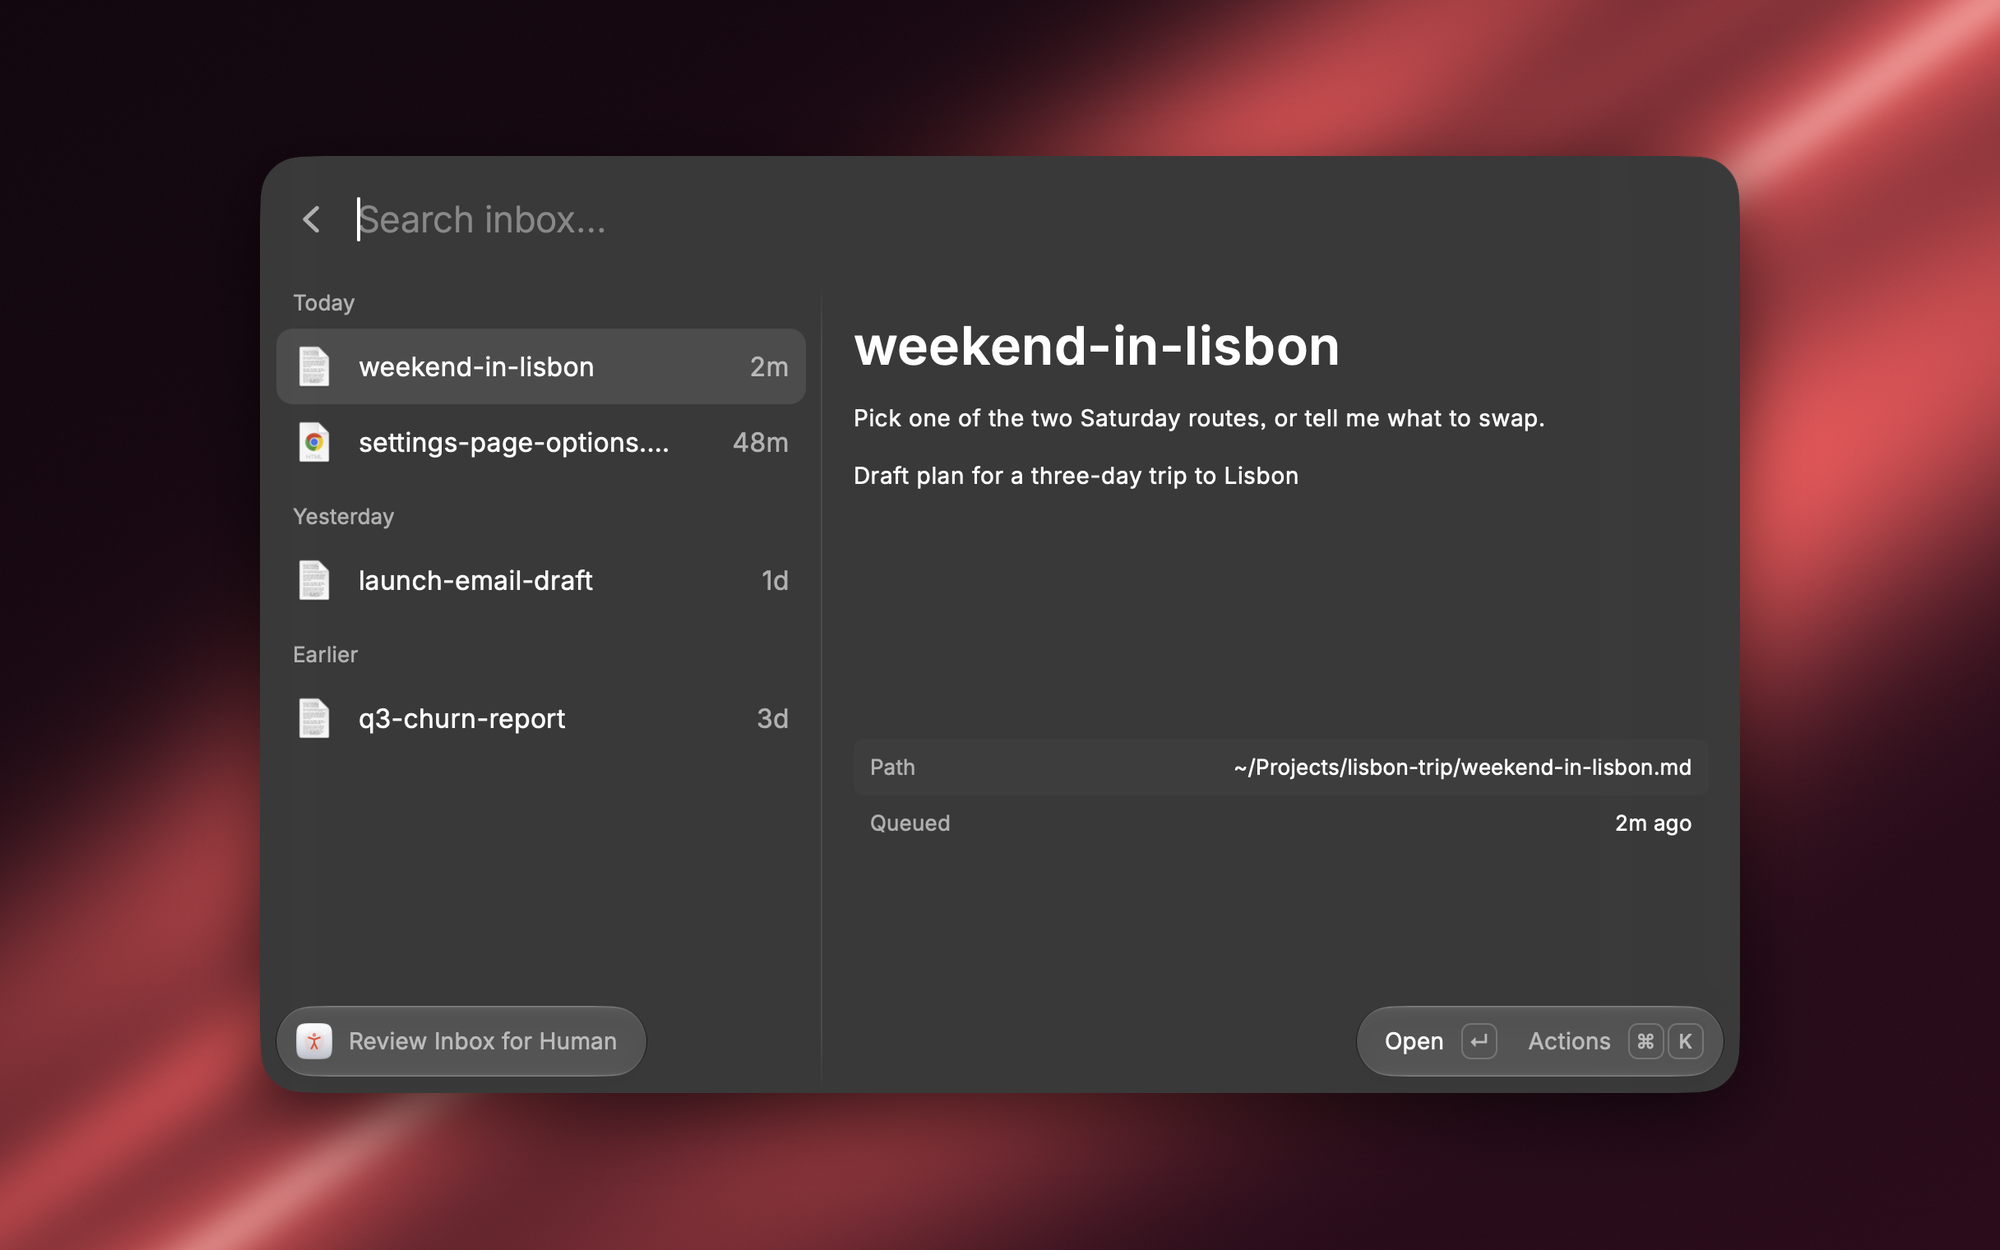
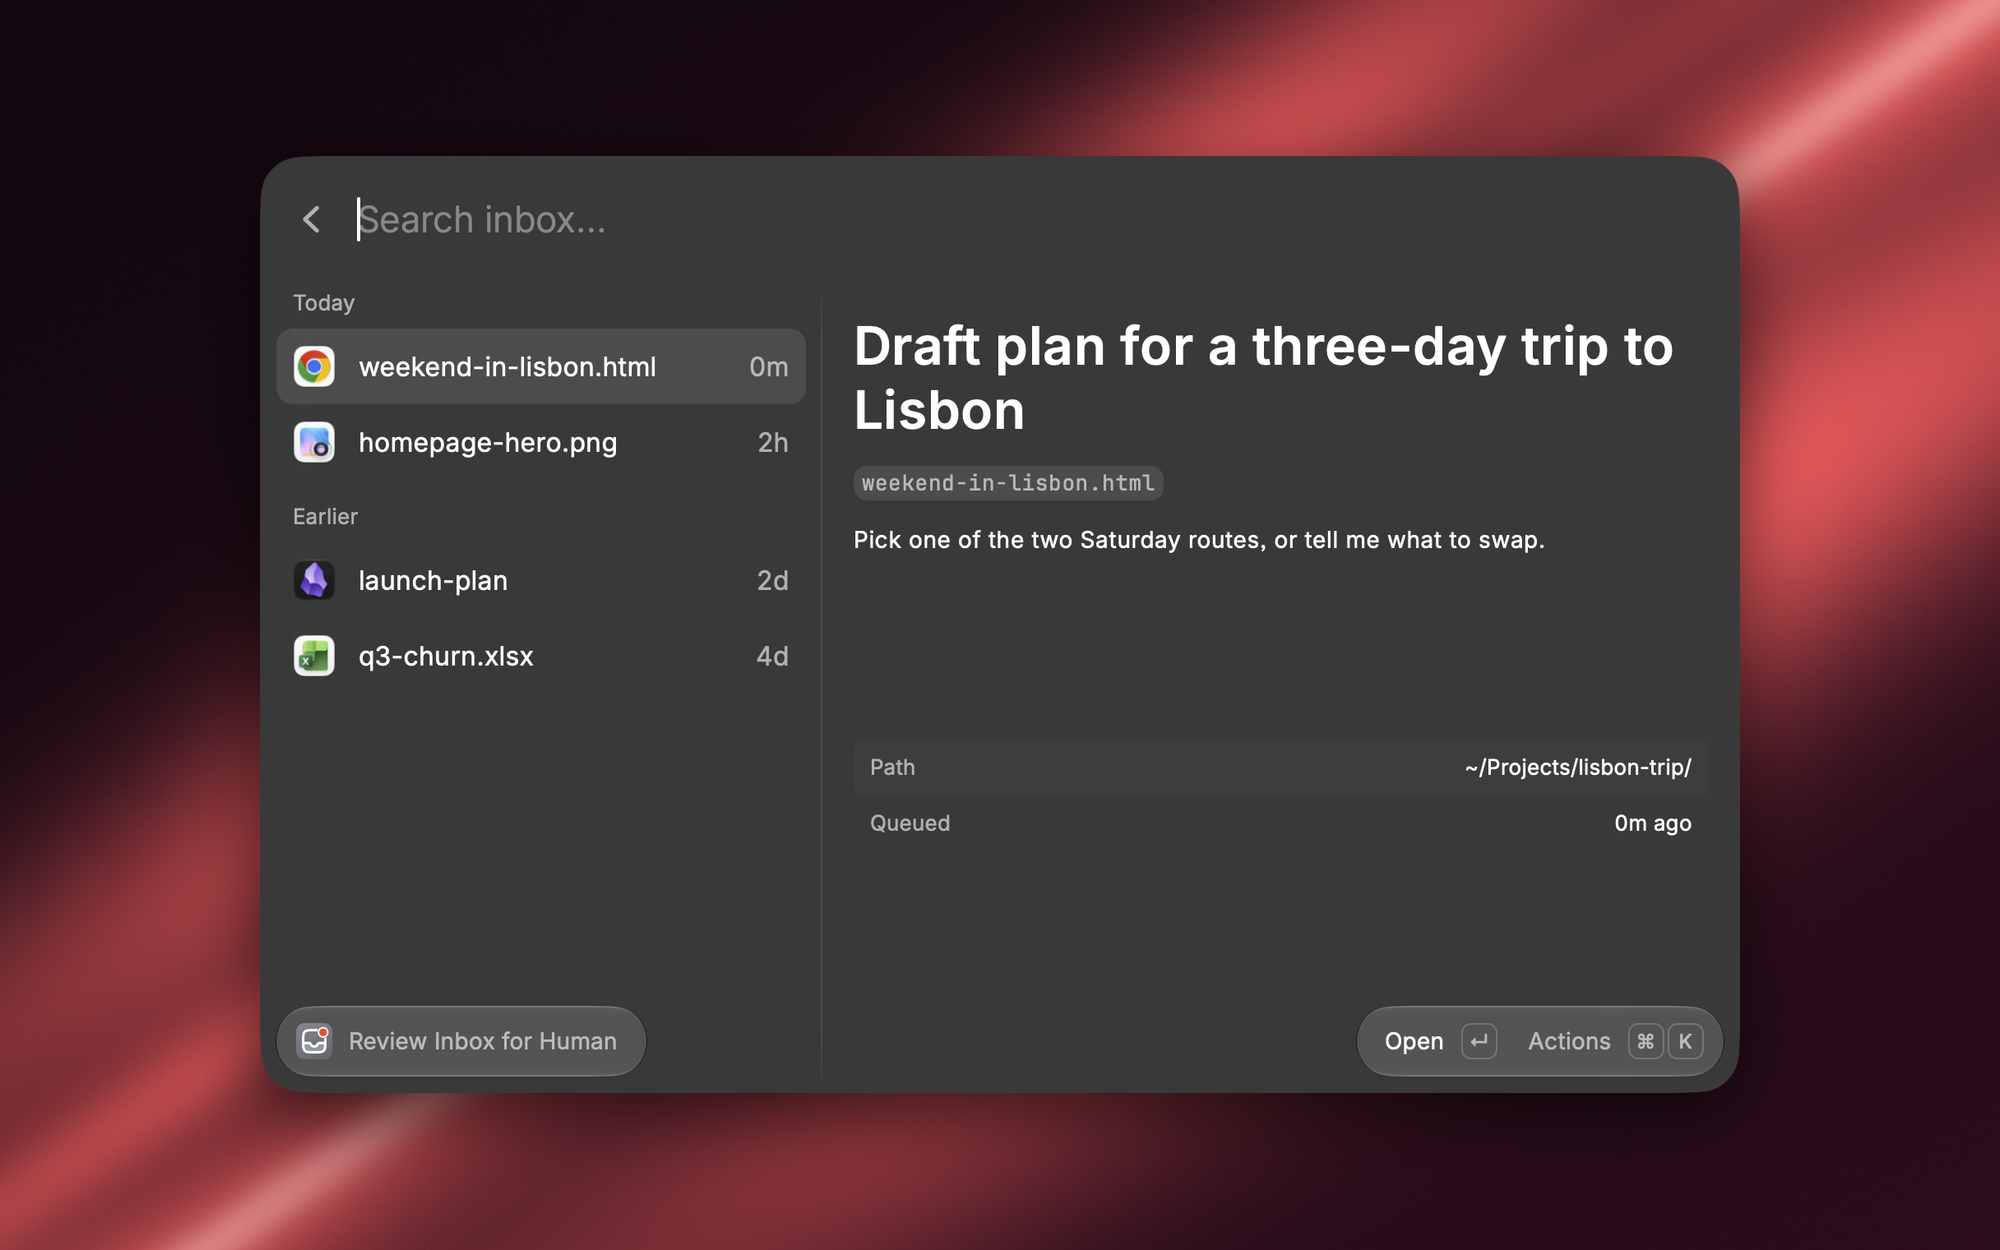
1.5.2: - When your agent adds a file, it now says so in two lines: 📥 with the title as a link and the file name, then what it needs from you.

diff --git a/scripts/enqueue.py b/scripts/enqueue.py
@@ -51,7 +51,7 @@ FIRST_RUN_ADVISORY = (
     "Note: Inbox for Human shows your inbox in Raycast, which isn't on "
     "this Mac. Get Raycast at https://raycast.com/?via=jasoneric, then "
     "the Inbox for Human extension at "
-    "https://www.raycast.com/jasoneric/inbox-for-human. "
+    "https://www.raycast.com/jasoneric/inbox-for-human?via=jasoneric. "
     "(This note won't repeat.)"
 )
 

diff --git a/SKILL.md b/SKILL.md
@@ -3,7 +3,7 @@ name: inbox-for-human
 description: 'Adds a plan, report, draft, or mockup you made to the user''s Inbox for Human, a list in Raycast they open with a hotkey, with what you need from them. Use whenever you ask the user to review, approve or pick from a report, plan, options, or a list, setting or rule you propose (mid-task too, even as one yes/no), they ask to see or review work ("show me what it looks like now", "let me review the plan", "let me review it", "open it for feedback", "show me the options so I can pick one"), you have three or more questions or decisions open for them, or you finish a document or visual deliverable for them. Count the open questions together even across messages; a choice among options counts as one, but a numbered list of proposed changes counts each item, even when asked as one yes/no ("make changes 1–6?", "reply with numbers, all, or none", a 📚 lesson list). Not for a yes/no with nothing to look over, brief chat answers or reference files; show unfinished work only on an explicit preview request.'
 allowed-tools: Bash
 metadata:
-  version: 1.3.1
+  version: 1.5.2
 ---
 
 # inbox-for-human
@@ -22,14 +22,14 @@ Never resolve the word "inbox" to a filesystem path — not even if a `find` tur
 
 Three or more questions or decisions open for the user now also enter the review flow. Count them together before choosing which to ask, even across messages; a choice among options counts as one, but a numbered list of proposed changes counts each item, even when asked as one yes/no ("make changes 1–6?", "reply with numbers, all, or none", a 📚 lesson list). Prepare one page with one part per question, using `human-feedback` when installed, then queue it. Older ticket or skill wording asking for chat does not override this trigger; the user’s explicit request for chat does. One or two brief questions stay in chat unless another review trigger applies.
 
-The description above is the auto-invocation matching surface. It covers review or choice requests, requests to see work such as “Show me what it looks like now”, and finished documents or visual deliverables made for the user, including printable checklists. Naming the inbox also loads it. When `human-feedback` is installed it fires alongside this skill: the same work gets both. Once loaded, three **modes** govern what the agent does: enqueue, announce, and show. Each mode has an entry trigger, a behavior while in it, and an exit condition. Check the mode at every subsequent action. An unfinished draft doesn't enter these modes just because it was saved.
+The description above is the auto-invocation matching surface. It covers review or choice requests, requests to see work such as “Show me what it looks like now”, and finished documents or visual deliverables made for the user, including printable checklists. Naming the inbox also loads it. When `human-feedback` is installed it fires alongside this skill: the same work gets both. Once loaded, three **modes** govern what the agent does: enqueue, announce, and show. Each mode has an entry trigger, a behavior while in it, and an exit condition. An unfinished draft doesn't enter these modes just because it was saved.
 
 ## Enqueue mode
 
 Before entering: when the work belongs on a notes page and `human-feedback` is in your available-skills list, load it and finish/check its held page first. Use an already prepared notes page instead of creating another. Enqueue that page, keeping the original document as its source; don't enqueue the source and then a second preview for the same handoff.
 
 - **Enter:** you're asking the user to review, approve or choose from the file, they asked to see or review it or named their inbox, you finished a document or visual deliverable for them. Prepare and check the deliverable before entering; an unfinished save alone doesn't enter. A deliverable with a notes page → enqueue that page once it's ready. A new version of that page → enqueue it with `--supersedes` naming the last one.
-- **Behavior while in mode:** no further user-facing text. No other tool calls except the enqueue command. Do not summarize, do not ask, do not continue work — the only valid next step is the enqueue.
+- **Behavior while in mode:** run the enqueue command before any other tool call or user-facing text. The 📥 line follows in Announce mode.
 - **Exit:** enqueue.py returns exit code 0.
 
 If enqueue.py prints a line starting `Note:` (Raycast isn't installed, or this isn't a Mac), pass it on to the user word for word, after the announce line below. Pass each note on only once a session, even when the script prints it again.
@@ -55,22 +55,24 @@ python3 "$SKILL_DIR/scripts/enqueue.py" \
 ## Announce mode
 
 - **Enter:** enqueue.py exits 0.
-- **Behavior while in mode:** the literal next user-facing text in this turn must contain a line in this **exact** format, one line per file enqueued:
+- **Behavior while in mode:** the literal next user-facing text in this turn must be this **exact** two-line format, once per file enqueued:
 
   ```
-  🍪 **Added to Inbox for Human:** <absolute-path> — <one-line context, ≤80 chars> ([open](<obsidian-url>))
+  📥 **Added to Inbox-for-Human: [<title>](<link>)** (<file name>)
+  <ask>
   ```
 
-  Required elements, all literal: the 🍪 cookie, the `**Added to Inbox for Human:**` bolded prefix (with the colon inside the bold), the absolute path, a space + em-dash (`—`, U+2014) + space, and the context.
+  Required elements, all literal: the 📥, the bolded `Added to Inbox-for-Human: ` with the linked title inside the bold, then the file name with its extension in parentheses. `<title>` is the `--context` you passed, 80 characters or less. `<ask>` is the `--ask` you passed, word for word, with no quotes or parentheses around it. No path and no command.
 
-  **The trailing `([open](<obsidian-url>))` makes the file reachable in one click**, which a bare path in a terminal is not. Do not build that URL by hand: `enqueue.py` prints it as its own `Obsidian: obsidian://…` output line whenever the file sits inside a vault, already URL-encoded and already pointed at the right vault (a nested vault wins over the one above it). Copy that URL across verbatim. When the script prints no `Obsidian:` line the file is outside every vault, so omit the parenthetical entirely and leave the rest of the line exactly as it is — the link is additive, and the compliance form above stands with or without it. For an HTML page, use the link your project's instructions give for a local page (a preview server's localhost URL), else its `file://` URL: `([open](<url>))`. Never a bare URL, which wraps across lines and doesn't click.
-  For each `Superseded:` line enqueue.py prints, add `🗄 **Archived from Inbox:** <its context>` right after the cookie line.
+  **The link makes the file reachable in one click**, which a bare path in a terminal is not. Do not build that URL by hand: `enqueue.py` prints it as its own `Obsidian: obsidian://…` output line whenever the file sits inside a vault, already URL-encoded and already pointed at the right vault (a nested vault wins over the one above it). Copy that URL across verbatim. For an HTML page, use the link your project's instructions give for a local page (a preview server's localhost URL), else its `file://` URL. When the script prints no `Obsidian:` line and the file isn't an HTML page, write the title without a link and leave the rest of the format as it is. Never a bare URL, which wraps across lines and doesn't click.
+
+  For each `Superseded:` line enqueue.py prints, add `🗄 **Archived from Inbox:** <its context>` right after that.
 - **Exit:** the line above is emitted.
 
-This is not "include the cookie line somewhere in your response." It is "the cookie line is the first text the user sees after the enqueue runs." If you have already emitted user-facing text earlier in the turn, the cookie line is still the next text after enqueue.py succeeds.
+This is not "include the inbox line somewhere in your response." It is "the inbox line is the first text the user sees after the enqueue runs." If you have already emitted user-facing text earlier in the turn, the inbox line is still the next text after enqueue.py succeeds.
 
-Wrong order: enqueue → ask "what's next?" → user answers → announce 🍪.
-Right order: enqueue → 🍪 announce → then continue.
+Wrong order: enqueue → ask "what's next?" → user answers → announce 📥.
+Right order: enqueue → 📥 announce → then continue.
 
 ## Show mode
 

diff --git a/README.md b/README.md
@@ -6,9 +6,11 @@ inbox-for-human is a free skill for Claude Code, Codex, and other AI agents, wit
 npx skills add jasonericsiegel/inbox-for-human
 ```
 
-Then get the [Inbox for Human extension](https://www.raycast.com/jasoneric/inbox-for-human) from the Raycast Store.
+Then get the [Inbox for Human extension](https://www.raycast.com/jasoneric/inbox-for-human?via=jasoneric) from the Raycast Store.
 
-![Review Inbox for Human in Raycast, with a plan, a page of mockups, an email draft and a report waiting](media/review-inbox-for-human.png)
+See it in action at [jasoneric.com/inbox-for-human](https://jasoneric.com/inbox-for-human/).
+
+![Review Inbox for Human in Raycast, with a trip plan, a homepage picture, a launch plan and a spreadsheet waiting](media/review-inbox-for-human.png)
 
 ## How it works
 
@@ -32,7 +34,7 @@ Quick answers stay in chat.
 
 You need:
 
-- A Mac with [Raycast](https://raycast.com/?via=jasoneric) (affiliate link). Your inbox lives in Raycast.
+- A Mac with [Raycast](https://raycast.com/?via=jasoneric). Your inbox lives in Raycast.
 - Your agent running on your Mac, so it can add files there.
 - Python 3. Most Macs with Claude Code or Codex already have it. If yours doesn't, macOS offers to install it the first time the skill runs.
 
@@ -46,7 +48,7 @@ You need:
 
 ## Install
 
-1. Get [Inbox for Human from the Raycast Store](https://www.raycast.com/jasoneric/inbox-for-human).
+1. Get [Inbox for Human from the Raycast Store](https://www.raycast.com/jasoneric/inbox-for-human?via=jasoneric).
 2. Open your agent:
    - **Claude desktop app:** open the **Code** tab, choose a folder to work in (Documents is fine), and keep the session on **Local**.
    - **ChatGPT desktop app:** switch to **Codex** at the top of the window, choose a folder, and keep it on **Local**.

diff --git a/CHANGELOG.md b/CHANGELOG.md
@@ -1,5 +1,9 @@
 # Changelog
 
+## 1.5.2 (2026-11-25)
+
+- When your agent adds a file, it now says so in two lines: 📥 with the title as a link and the file name, then what it needs from you.
+
 ## 1.3.1 (2026-11-21)
 
 - Fixed an item going missing when two agents, or an agent and the Raycast extension, change the inbox at the same moment.
